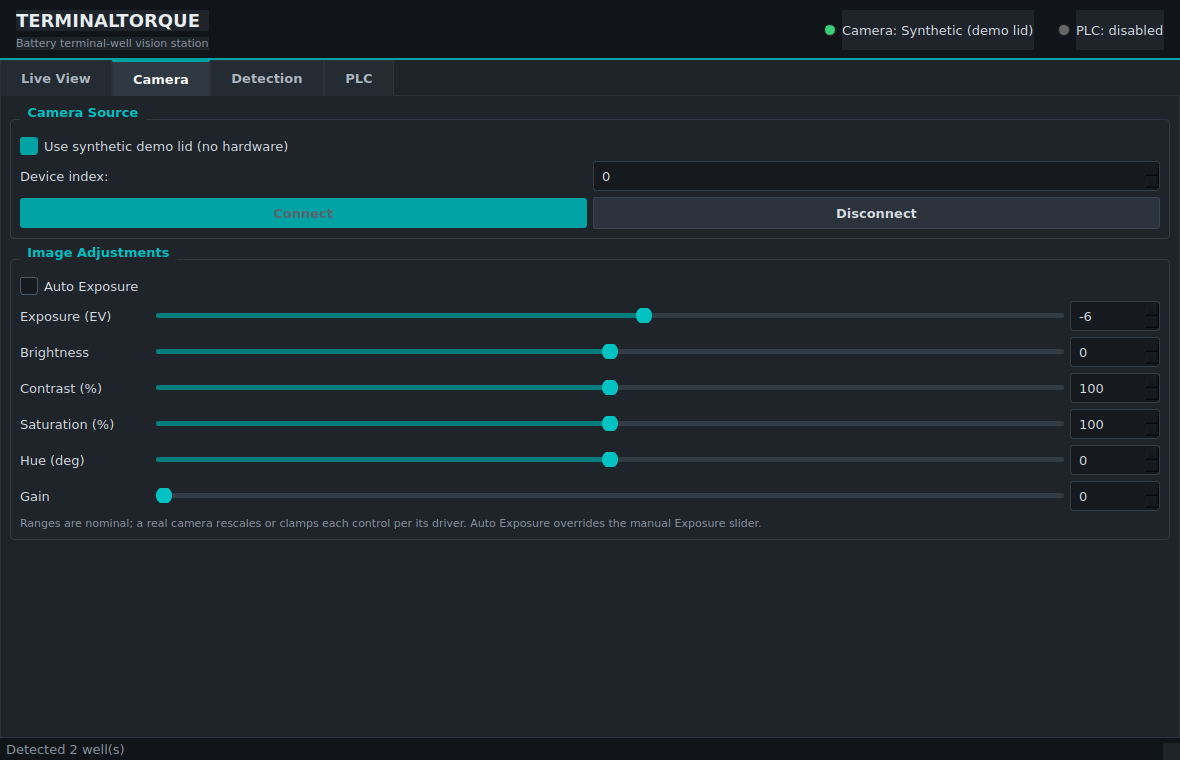
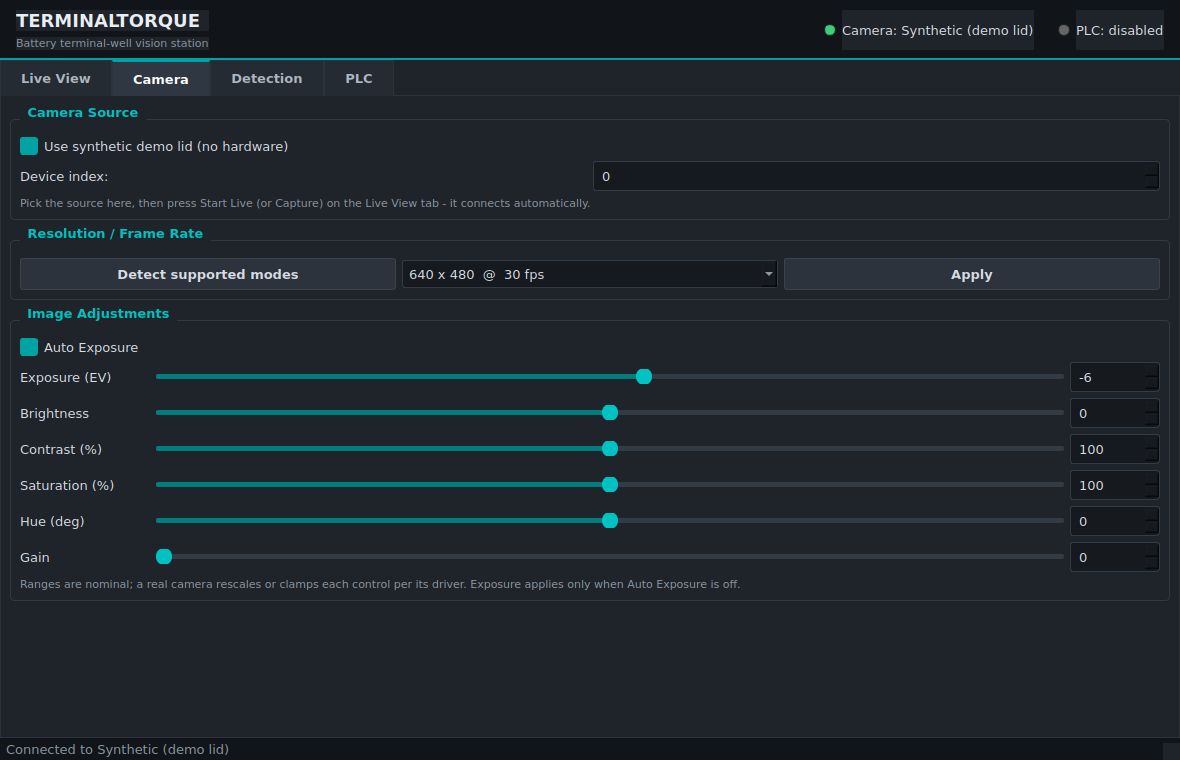
Fix camera flow: no forced-dark settings, auto-connect, mode probe
Addresses operator feedback on the Camera tab.

- Stop the dark image: connect no longer blasts every slider at the camera
  (which forced manual exposure to -6 EV and auto-exposure off). It now
  pushes only the auto-exposure state, leaving the camera on auto and bright;
  controls change the camera only when the operator moves them. Auto Exposure
  now defaults on, and the manual Exposure slider is disabled while it is.
- Remove the Connect/Disconnect buttons. Start Live (and Capture) on the Live
  View now auto-connect using the Camera tab's selected source.
- Add "Detect supported modes" to the Camera tab: probes the camera for
  supported resolutions/frame rates and lets the operator apply one.

Tests cover auto-connect from Start Live, connect pushing only auto-exposure,
and mode probe/apply.

Claude-Session: https://claude.ai/code/session_01Dmt6uHgkDVn3BeEhfZHWxT

diff --git a/terminaltorque/gui/tabs_camera.py b/terminaltorque/gui/tabs_camera.py
@@ -1,4 +1,10 @@
-"""Camera tab: choose the source and adjust exposure/contrast/hue/etc."""
+"""Camera tab: choose the source, list modes, and adjust image controls.
+
+Connection is driven from the Live View's *Start Live* (or Capture) button -
+this tab only configures *which* camera and *how* it is tuned. The camera keeps
+its own auto-exposure on connect; nothing is forced onto it, so the picture is
+never darkened behind the operator's back.
+"""
 
 from __future__ import annotations
 
@@ -30,18 +36,32 @@ class CameraTab(QtWidgets.QWidget):
         self.index_spin.setRange(0, 16)
         self.index_spin.setEnabled(False)
 
-        self.btn_connect = QtWidgets.QPushButton("Connect")
-        self.btn_connect.setObjectName("Primary")
-        self.btn_connect.clicked.connect(self._connect)
-        self.btn_disconnect = QtWidgets.QPushButton("Disconnect")
-        self.btn_disconnect.clicked.connect(self.main.disconnect_camera)
+        hint = QtWidgets.QLabel(
+            "Pick the source here, then press Start Live (or Capture) on the "
+            "Live View tab - it connects automatically."
+        )
+        hint.setWordWrap(True)
+        hint.setStyleSheet("color:#8b96a0; font-size:11px;")
 
         form.addWidget(self.use_synthetic, 0, 0, 1, 2)
         form.addWidget(QtWidgets.QLabel("Device index:"), 1, 0)
         form.addWidget(self.index_spin, 1, 1)
-        form.addWidget(self.btn_connect, 2, 0)
-        form.addWidget(self.btn_disconnect, 2, 1)
+        form.addWidget(hint, 2, 0, 1, 2)
         root.addWidget(src)
+
+        # --- resolution / frame rate ---
+        self.modes_box = QtWidgets.QGroupBox("Resolution / Frame Rate")
+        mgrid = QtWidgets.QGridLayout(self.modes_box)
+        self.btn_detect = QtWidgets.QPushButton("Detect supported modes")
+        self.btn_detect.clicked.connect(self._detect_modes)
+        self.modes_combo = QtWidgets.QComboBox()
+        self.btn_apply_mode = QtWidgets.QPushButton("Apply")
+        self.btn_apply_mode.clicked.connect(self._apply_mode)
+        self.btn_apply_mode.setEnabled(False)
+        mgrid.addWidget(self.btn_detect, 0, 0)
+        mgrid.addWidget(self.modes_combo, 0, 1)
+        mgrid.addWidget(self.btn_apply_mode, 0, 2)
+        root.addWidget(self.modes_box)
 
         # --- adjustments ---
         self.adjust_box = QtWidgets.QGroupBox("Image Adjustments")
@@ -51,7 +71,7 @@ class CameraTab(QtWidgets.QWidget):
                 cb = QtWidgets.QCheckBox(prop.label)
                 cb.setChecked(bool(prop.default))
                 cb.toggled.connect(
-                    lambda v, key=prop.key: self.main.apply_camera_property(key, 1.0 if v else 0.0)
+                    lambda v, key=prop.key: self._toggle_changed(key, v)
                 )
                 self._toggles[prop.key] = cb
                 grid.addWidget(cb)
@@ -63,9 +83,15 @@ class CameraTab(QtWidgets.QWidget):
                 self._sliders[prop.key] = slider
                 grid.addWidget(slider)
 
+        # Exposure is meaningful only with auto-exposure off.
+        if "exposure" in self._sliders and "auto_exposure" in self._toggles:
+            self._sliders["exposure"].setEnabled(
+                not self._toggles["auto_exposure"].isChecked()
+            )
+
         note = QtWidgets.QLabel(
             "Ranges are nominal; a real camera rescales or clamps each control "
-            "per its driver. Auto Exposure overrides the manual Exposure slider."
+            "per its driver. Exposure applies only when Auto Exposure is off."
         )
         note.setWordWrap(True)
         note.setStyleSheet("color:#8b96a0; font-size:11px;")
@@ -73,28 +99,56 @@ class CameraTab(QtWidgets.QWidget):
         root.addWidget(self.adjust_box)
         root.addStretch(1)
 
-        self.adjust_box.setEnabled(False)
         self._sync_source_widgets()
+        self.on_camera_connected(False)
 
+    # -- source --------------------------------------------------------------
     def _sync_source_widgets(self):
         self.index_spin.setEnabled(not self.use_synthetic.isChecked())
 
-    def _connect(self):
-        if self.use_synthetic.isChecked():
-            self.main.connect_synthetic_camera()
-        else:
-            self.main.connect_camera(self.index_spin.value())
+    def use_synthetic_source(self) -> bool:
+        return self.use_synthetic.isChecked()
+
+    def device_index(self) -> int:
+        return self.index_spin.value()
+
+    # -- adjustments ---------------------------------------------------------
+    def _toggle_changed(self, key: str, value: bool):
+        self.main.apply_camera_property(key, 1.0 if value else 0.0)
+        if key == "auto_exposure" and "exposure" in self._sliders:
+            # Disable manual exposure while auto is on; apply it when turned off.
+            self._sliders["exposure"].setEnabled(not value)
+            if not value:
+                self.main.apply_camera_property("exposure", self._sliders["exposure"].value())
 
     def on_camera_connected(self, connected: bool):
         self.adjust_box.setEnabled(connected)
-        self.btn_connect.setEnabled(not connected)
-        self.btn_disconnect.setEnabled(connected)
-        if connected:
-            self.push_all_properties()
+        self.modes_box.setEnabled(connected)
 
-    def push_all_properties(self):
-        """Apply every current control value to the freshly connected camera."""
-        for key, slider in self._sliders.items():
-            self.main.apply_camera_property(key, slider.value())
-        for key, cb in self._toggles.items():
-            self.main.apply_camera_property(key, 1.0 if cb.isChecked() else 0.0)
+    def apply_initial_settings(self):
+        """Push only the auto-exposure state on connect (keeps the image bright).
+
+        Deliberately does NOT blast every slider at the camera; forcing manual
+        exposure/gain on connect is what previously darkened the picture.
+        """
+        if "auto_exposure" in self._toggles:
+            on = self._toggles["auto_exposure"].isChecked()
+            self.main.apply_camera_property("auto_exposure", 1.0 if on else 0.0)
+
+    # -- modes ---------------------------------------------------------------
+    def _detect_modes(self):
+        modes = self.main.probe_camera_modes()
+        self.modes_combo.clear()
+        if not modes:
+            self.modes_combo.addItem("No camera / no modes found")
+            self.btn_apply_mode.setEnabled(False)
+            return
+        for w, h, fps in modes:
+            fps_txt = f"{fps:g} fps" if fps else "fps n/a"
+            self.modes_combo.addItem(f"{w} x {h}  @  {fps_txt}", (w, h, fps))
+        self.btn_apply_mode.setEnabled(True)
+
+    def _apply_mode(self):
+        data = self.modes_combo.currentData()
+        if data:
+            self.main.apply_camera_mode(*data)

diff --git a/terminaltorque/gui/camera_source.py b/terminaltorque/gui/camera_source.py
@@ -40,7 +40,7 @@ class CameraProperty:
 # Order here is the order shown in the Camera tab.
 CAMERA_PROPERTIES: List[CameraProperty] = [
     CameraProperty("auto_exposure", "Auto Exposure", cv2.CAP_PROP_AUTO_EXPOSURE,
-                   0, 1, 0, 1, is_toggle=True),
+                   0, 1, 1, 1, is_toggle=True),
     CameraProperty("exposure", "Exposure (EV)", cv2.CAP_PROP_EXPOSURE,
                    -13, 0, -6, 1),
     CameraProperty("brightness", "Brightness", cv2.CAP_PROP_BRIGHTNESS,
@@ -56,6 +56,12 @@ CAMERA_PROPERTIES: List[CameraProperty] = [
 ]
 
 PROPERTY_BY_KEY: Dict[str, CameraProperty] = {p.key: p for p in CAMERA_PROPERTIES}
+
+# Common sensor resolutions probed when listing camera modes.
+STANDARD_RESOLUTIONS = [
+    (320, 240), (640, 480), (800, 600), (1024, 768), (1280, 720),
+    (1280, 960), (1600, 1200), (1920, 1080), (2560, 1440), (3840, 2160),
+]
 
 
 class CameraSource:
@@ -80,6 +86,14 @@ class CameraSource:
 
     def get_property(self, key: str) -> Optional[float]:  # pragma: no cover
         raise NotImplementedError
+
+    def probe_modes(self) -> List[tuple]:  # pragma: no cover - trivial
+        """Return supported (width, height, fps) modes."""
+        return []
+
+    def set_mode(self, width: int, height: int, fps: Optional[float] = None) -> None:
+        """Select a capture resolution / frame rate."""
+        pass
 
 
 class OpenCVCameraSource(CameraSource):
@@ -124,6 +138,39 @@ class OpenCVCameraSource(CameraSource):
             return None
         return self._cap.get(prop.cv_prop)
 
+    def probe_modes(self) -> List[tuple]:
+        """Probe which standard resolutions the camera actually accepts.
+
+        OpenCV has no enumeration API, so we set each candidate and read back
+        what the driver snapped to, deduplicating. The current mode is restored
+        afterwards.
+        """
+        if not self.is_open():
+            return []
+        cur_w = self._cap.get(cv2.CAP_PROP_FRAME_WIDTH)
+        cur_h = self._cap.get(cv2.CAP_PROP_FRAME_HEIGHT)
+        modes, seen = [], set()
+        for w, h in STANDARD_RESOLUTIONS:
+            self._cap.set(cv2.CAP_PROP_FRAME_WIDTH, w)
+            self._cap.set(cv2.CAP_PROP_FRAME_HEIGHT, h)
+            aw = int(self._cap.get(cv2.CAP_PROP_FRAME_WIDTH))
+            ah = int(self._cap.get(cv2.CAP_PROP_FRAME_HEIGHT))
+            fps = round(float(self._cap.get(cv2.CAP_PROP_FPS)), 1)
+            if aw and ah and (aw, ah) not in seen:
+                seen.add((aw, ah))
+                modes.append((aw, ah, fps))
+        self._cap.set(cv2.CAP_PROP_FRAME_WIDTH, cur_w)
+        self._cap.set(cv2.CAP_PROP_FRAME_HEIGHT, cur_h)
+        return modes
+
+    def set_mode(self, width: int, height: int, fps: Optional[float] = None) -> None:
+        if not self.is_open():
+            return
+        self._cap.set(cv2.CAP_PROP_FRAME_WIDTH, width)
+        self._cap.set(cv2.CAP_PROP_FRAME_HEIGHT, height)
+        if fps:
+            self._cap.set(cv2.CAP_PROP_FPS, fps)
+
 
 class SyntheticCameraSource(CameraSource):
     """Software camera that renders the demo lid and applies adjustments.
@@ -156,6 +203,12 @@ class SyntheticCameraSource(CameraSource):
 
     def get_property(self, key: str) -> Optional[float]:
         return self._props.get(key)
+
+    def probe_modes(self) -> List[tuple]:
+        return [(640, 480, 30.0), (1280, 720, 30.0), (1920, 1080, 30.0)]
+
+    def set_mode(self, width: int, height: int, fps: Optional[float] = None) -> None:
+        self._size = (int(height), int(width))
 
     def read(self) -> Optional[np.ndarray]:
         if not self._open:

diff --git a/terminaltorque/gui/main_window.py b/terminaltorque/gui/main_window.py
@@ -108,7 +108,8 @@ class MainWindow(QtWidgets.QMainWindow):
             self.led_plc.set_state("off", "PLC: disabled")
         else:
             self.led_plc.set_state("warn", f"PLC: {self.plc_config.path}")
-        self.live_tab.set_controls_enabled(cam_ok)
+        # Live-view buttons stay enabled - Start Live / Capture auto-connect.
+        self.live_tab.set_controls_enabled(True)
         self.camera_tab.on_camera_connected(cam_ok)
 
     # -------------------------------------------------------------- camera
@@ -118,6 +119,16 @@ class MainWindow(QtWidgets.QMainWindow):
     def connect_camera(self, index: int):
         self._set_camera(OpenCVCameraSource(index))
 
+    def ensure_camera(self) -> bool:
+        """Connect using the Camera tab's current source selection if needed."""
+        if self.camera is not None and self.camera.is_open():
+            return True
+        if self.camera_tab.use_synthetic_source():
+            self.connect_synthetic_camera()
+        else:
+            self.connect_camera(self.camera_tab.device_index())
+        return self.camera is not None and self.camera.is_open()
+
     def _set_camera(self, source: CameraSource):
         self.disconnect_camera()
         if not source.open():
@@ -126,12 +137,30 @@ class MainWindow(QtWidgets.QMainWindow):
             )
             return
         self.camera = source
+        # Push ONLY the auto-exposure state (keeps the image bright); never
+        # force manual exposure/gain on connect.
+        self.camera_tab.apply_initial_settings()
         frame = self.camera.read()
         if frame is not None:
             self.live_frame = frame
             self.live_tab.show_frame(frame)
         self.statusBar().showMessage(f"Connected to {source.name}")
         self._refresh_status()
+
+    def probe_camera_modes(self):
+        if not self.ensure_camera():
+            return []
+        return self.camera.probe_modes()
+
+    def apply_camera_mode(self, width, height, fps=None):
+        if self.camera is None:
+            return
+        self.camera.set_mode(width, height, fps)
+        frame = self.camera.read()
+        if frame is not None:
+            self.live_frame = frame
+            self.live_tab.show_frame(frame)
+        self.statusBar().showMessage(f"Resolution set to {width} x {height}")
 
     def disconnect_camera(self):
         self.stop_live()
@@ -145,8 +174,13 @@ class MainWindow(QtWidgets.QMainWindow):
             self.camera.set_property(key, value)
 
     def start_live(self):
-        if self.camera is not None and self.camera.is_open():
-            self.live_timer.start()
+        # Start Live does the whole thing: connect (per the Camera tab's source)
+        # then stream.
+        if not self.ensure_camera():
+            self.stop_live()
+            self.statusBar().showMessage("Could not start a camera")
+            return
+        self.live_timer.start()
 
     def stop_live(self):
         self.live_timer.stop()
@@ -163,7 +197,7 @@ class MainWindow(QtWidgets.QMainWindow):
 
     # ------------------------------------------------------------- capture
     def capture(self):
-        if self.camera is None or not self.camera.is_open():
+        if not self.ensure_camera():
             self.statusBar().showMessage("No camera connected")
             return None
         frame = self.camera.read()

diff --git a/tests/test_gui.py b/tests/test_gui.py
@@ -51,6 +51,32 @@ def test_connect_synthetic_and_capture_process(window):
     assert window.live_tab.table.rowCount() == 2
 
 
+def test_start_live_auto_connects(window):
+    # No explicit connect; Camera tab defaults to the synthetic source.
+    assert window.camera is None
+    window.start_live()
+    assert window.camera is not None and window.camera.is_open()
+    assert window.live_timer.isActive()
+
+
+def test_connect_only_pushes_auto_exposure(window):
+    # The connect step must not force a manual (dark) exposure on the camera.
+    window.connect_synthetic_camera()
+    assert window.camera.get_property("auto_exposure") == 1.0
+    # Exposure stays at its default; connect did not drive it.
+    from terminaltorque.gui.camera_source import PROPERTY_BY_KEY
+    assert window.camera.get_property("exposure") == PROPERTY_BY_KEY["exposure"].default
+
+
+def test_probe_and_apply_camera_mode(window):
+    window.connect_synthetic_camera()
+    modes = window.probe_camera_modes()
+    assert (1280, 720, 30.0) in modes
+    window.apply_camera_mode(1280, 720, 30.0)
+    frame = window.camera.read()
+    assert frame.shape[1] == 1280 and frame.shape[0] == 720
+
+
 def test_camera_property_changes_live_image(window):
     window.connect_synthetic_camera()
     f1 = window.camera.read().copy()

diff --git a/README.md b/README.md
@@ -40,12 +40,15 @@ terminaltorque-hmi             # or: python -m terminaltorque.gui
 
 Four tabs:
 
-- **Live View** — stream the camera, **Capture** a frame, **Capture & Process**
-  to detect wells (centers + diameters overlaid, results in a table), and
-  **Push to PLC**.
+- **Live View** — **Start Live** connects the camera (per the Camera tab's
+  source) and streams it; **Capture** a frame, **Capture & Process** to detect
+  wells (centers + diameters overlaid, results in a table), and **Push to PLC**.
 - **Camera** — pick the source (a real device index or the built-in synthetic
-  demo lid) and adjust **exposure, brightness, contrast, saturation, hue, gain,
-  and auto-exposure** live.
+  demo lid), **Detect supported modes** to list resolutions / frame rates and
+  apply one, and adjust **exposure, brightness, contrast, saturation, hue, gain,
+  and auto-exposure** live. Auto-exposure is on by default and the camera keeps
+  its own settings on connect — controls only change the camera when you move
+  them, so the picture is never darkened behind your back.
 - **Detection** — tell it **what hole size to look for** (min/max diameter in
   pixels or millimeters), the expected well count, and detection sensitivity,
   plus calibration (mm/px, or set it from a known length).
